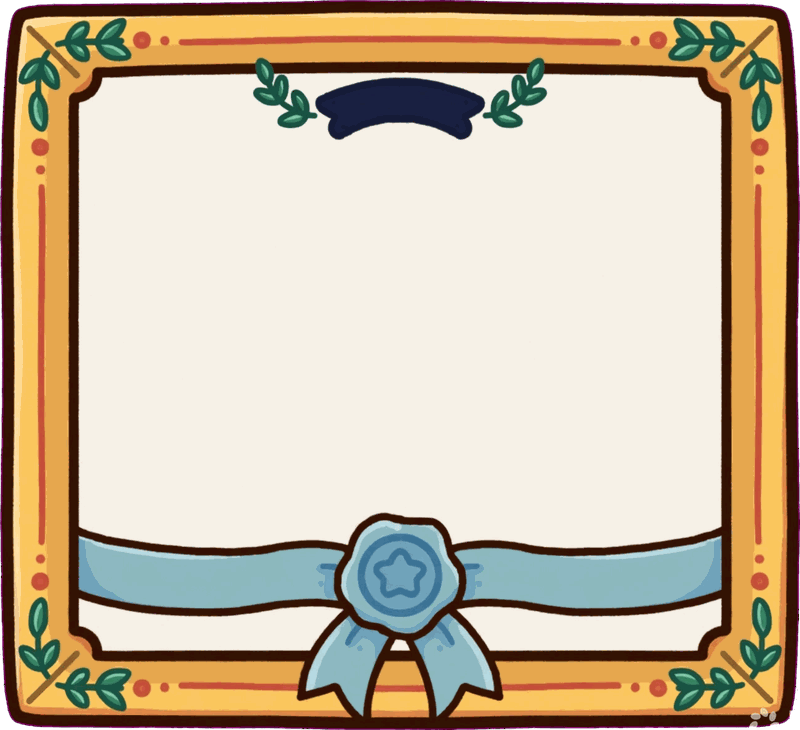
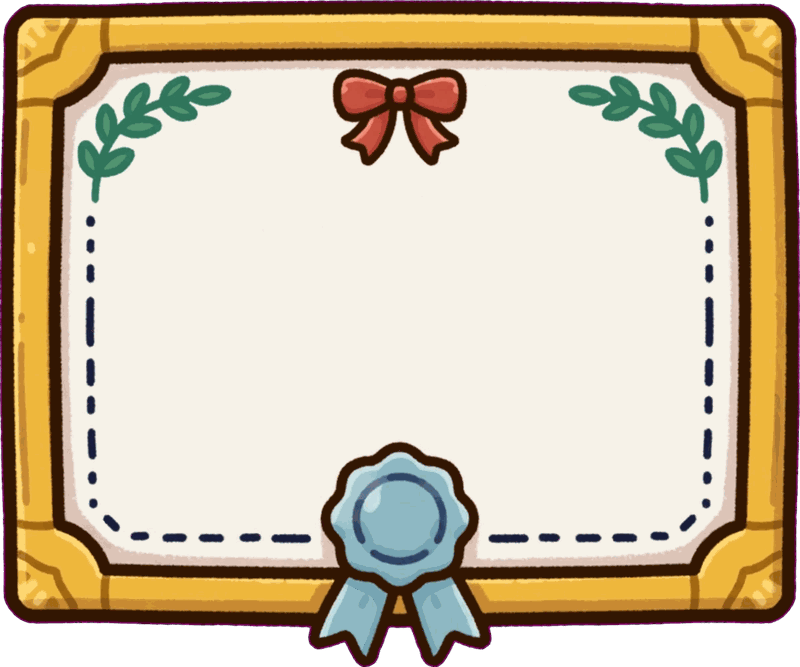
Game: hình Leo, Mrs. Rosa, Dr. Anna, Officer Grace, quán cà phê, chợ, phòng khám, sân bay, máy bay, dải trời, ly cà phê kỷ niệm; khoá xích và bằng bản mới; căn chỗ đứng người bán (#74)
Claude-Session: https://claude.ai/code/session_01AHzGepJt93aQaJT6t7Vsc8

diff --git a/game/css/game.css b/game/css/game.css
@@ -225,9 +225,9 @@ button { font: inherit; color: inherit; cursor: pointer; }
 .grad-card { background: var(--paper); border-radius: 22px; padding: 18px; width: min(460px, 100%); text-align: center; box-shadow: 0 20px 50px rgba(0,0,0,.3); max-height: 92vh; overflow-y: auto; }
 .grad-card h2 { margin: 4px 0 12px; }
 .diploma { position: relative; border-radius: 16px; overflow: hidden; }
-.dip-img { width: 100%; aspect-ratio: 800 / 730; background: transparent !important; }
+.dip-img { width: 100%; aspect-ratio: 800 / 667; background: transparent !important; }
 .dip-img.ok img { object-fit: contain; }
-.dip-text { position: absolute; inset: 24% 20% 34%; display: flex; flex-direction: column; justify-content: center; gap: 4px; color: var(--navy); }
+.dip-text { position: absolute; inset: 27% 18% 36%; display: flex; flex-direction: column; justify-content: center; gap: 4px; color: var(--navy); }
 .dip-school { font-size: 13px; font-weight: 700; letter-spacing: .04em; }
 .dip-title { font-size: 17px; font-weight: 800; color: var(--coral); }
 .dip-name { font-size: 24px; font-weight: 800; }
@@ -299,3 +299,6 @@ button { font: inherit; color: inherit; cursor: pointer; }
 .q-go { padding: 5px 9px; }
 .kai { top: calc(max(10px, env(safe-area-inset-top)) + 106px) !important; }
 .quest > span:nth-child(2) { min-width: 0; }
+
+.dip-text { gap: 1px; }
+.dip-school { font-size: 11px; } .dip-title { font-size: 13.5px; line-height: 1.2; } .dip-name { font-size: 22px; line-height: 1.1; } .dip-meta { font-size: 10.5px; }

diff --git a/game/js/world.js b/game/js/world.js
@@ -90,17 +90,17 @@ G.SCENES = {
 /* Khu đời sống Brightford: vào trong là gặp người bán / bác sĩ */
 G.SCENES.cafe_en = {
   city: 'en', title: 'Quán cà phê của Leo', bg: 'interior_en_cafe.png', w: 1536, h: 1024, kind: 'shop', life: 'en-cafe', npc: 'leo',
-  walk: { x0: 90, y0: 330, x1: 1446, y1: 990 }, teacher: { x: 768, y: 400 },
+  walk: { x0: 90, y0: 450, x1: 1446, y1: 990 }, teacher: { x: 620, y: 470 },
   exit: { x: 768, y: 985, label: 'Ra phố', to: { scene: 'city_en', building: 'cafe' } }
 };
 G.SCENES.market_en = {
   city: 'en', title: 'Chợ nông sản', bg: 'interior_en_market.png', w: 1536, h: 1024, kind: 'shop', life: 'en-market', npc: 'rosa',
-  walk: { x0: 90, y0: 330, x1: 1446, y1: 990 }, teacher: { x: 768, y: 400 },
+  walk: { x0: 90, y0: 560, x1: 1446, y1: 990 }, teacher: { x: 380, y: 580 },
   exit: { x: 768, y: 985, label: 'Ra phố', to: { scene: 'city_en', building: 'market' } }
 };
 G.SCENES.hospital_en = {
   city: 'en', title: 'Bệnh viện Brightford', bg: 'interior_en_hospital.png', w: 1536, h: 1024, kind: 'shop', life: 'en-hospital', npc: 'anna',
-  walk: { x0: 90, y0: 330, x1: 1446, y1: 990 }, teacher: { x: 1100, y: 400 },
+  walk: { x0: 300, y0: 470, x1: 1440, y1: 990 }, teacher: { x: 1080, y: 560 },
   exit: { x: 768, y: 985, label: 'Ra phố', to: { scene: 'city_en', building: 'hospital' } }
 };
 

diff --git a/game/sw.js b/game/sw.js
@@ -1,6 +1,6 @@
 /* Chạy offline: giữ toàn bộ code game, dữ liệu và mọi file trong assets/ đã có.
    Hình mới bỏ vào assets/ được tải ở lần mở kế tiếp có mạng. Tệp giọng đọc được giữ lại khi đã nghe một lần. */
-var VERSION = 'thegioi-v19';
+var VERSION = 'thegioi-v20';
 var CORE = [
   './', 'index.html', 'manifest.webmanifest', 'css/game.css',
   'js/util.js', 'js/save.js', 'js/assets.js', 'js/audio.js', 'js/world.js', 'js/engine.js', 'js/lesson.js', 'js/lobby.js', 'js/main.js', 'js/avatar.js', 'js/create.js', 'js/ride.js', 'js/grad.js', 'js/flight.js', 'data/zh_hsk1.js', 'js/life.js', 'data/life.js',

diff --git a/game/ASSET_ORDERS.md b/game/ASSET_ORDERS.md
@@ -49,7 +49,7 @@ PART E · LOGO (ConnectLife = "connect your life")
 21. The same red clay "C" logo as a wide 3:1 banner: the clay C on the left, followed by the word "onnectLife" in the same red clay letters so it reads "ConnectLife", the letter "L" slightly bigger. Solid flat magenta #FF00FF background.
 ```
 
-Đã nhận và lưu: Mr. Tom, Mrs. Lily, Chef Sam (2 tư thế), khoá xích, bằng tốt nghiệp; bản đồ hai hòn đảo (đầu trang Ngôi nhà chung); xe buýt, tàu điện (đóng/mở cửa), 2 dải phố, bản đồ trung tâm, 5 toà nhà, hành lang, lớp học, 3 thẻ thành phố; 6 bộ trang phục, 8 kiểu tóc, 6 khuôn mặt, bản đồ khu phố Maple, nhà, bến xe buýt, cửa ga tàu, tài xế Mr. Joe; Han, Minh (3 hướng + 3 biểu cảm), Ms. Emma, cô Vương, hiệu trưởng Lý (+ tư thế nói), cửa mở. Kai dùng hình của app ATLAS.
+Đã nhận và lưu: Leo, Mrs. Rosa, Dr. Anna, Officer Grace, 4 phòng bên trong, máy bay, dải trời, ly cà phê; Mr. Tom, Mrs. Lily, Chef Sam (2 tư thế), khoá xích, bằng tốt nghiệp; bản đồ hai hòn đảo (đầu trang Ngôi nhà chung); xe buýt, tàu điện (đóng/mở cửa), 2 dải phố, bản đồ trung tâm, 5 toà nhà, hành lang, lớp học, 3 thẻ thành phố; 6 bộ trang phục, 8 kiểu tóc, 6 khuôn mặt, bản đồ khu phố Maple, nhà, bến xe buýt, cửa ga tàu, tài xế Mr. Joe; Han, Minh (3 hướng + 3 biểu cảm), Ms. Emma, cô Vương, hiệu trưởng Lý (+ tư thế nói), cửa mở. Kai dùng hình của app ATLAS.
 
 ---
 
